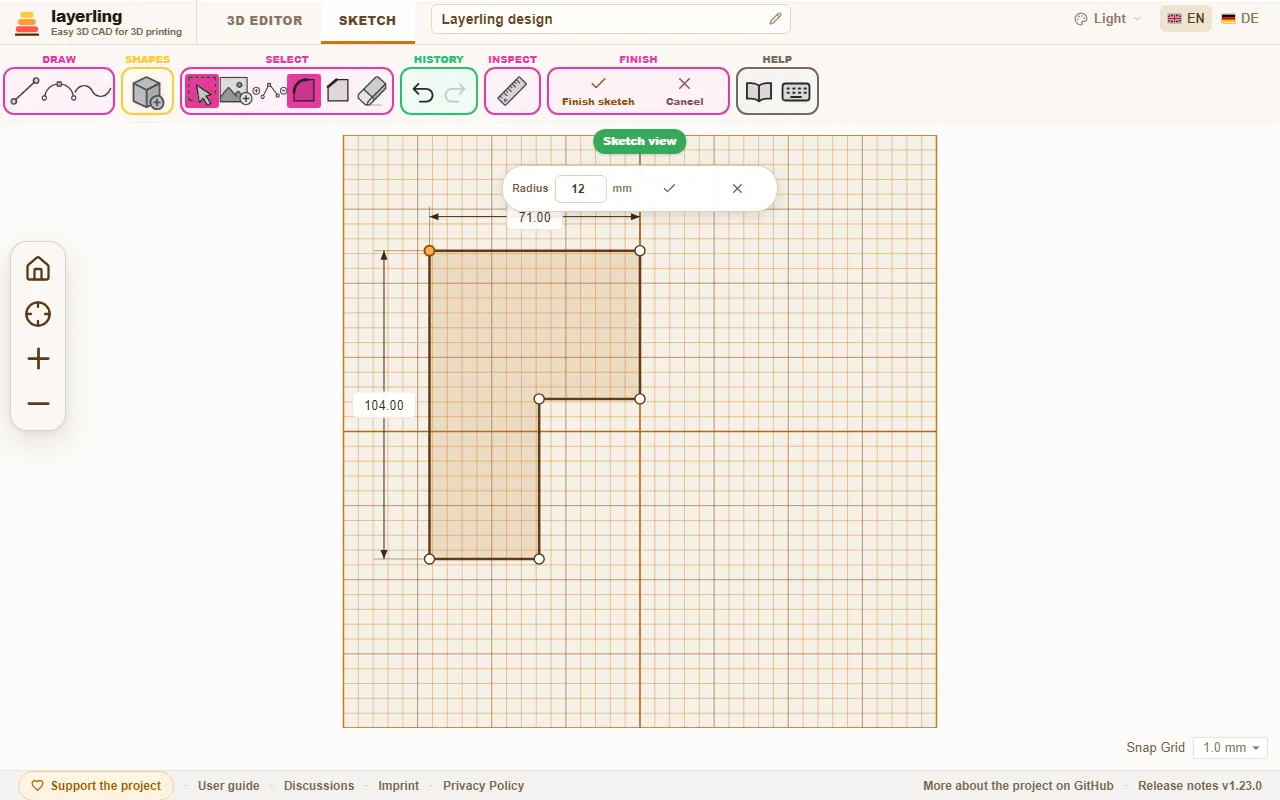
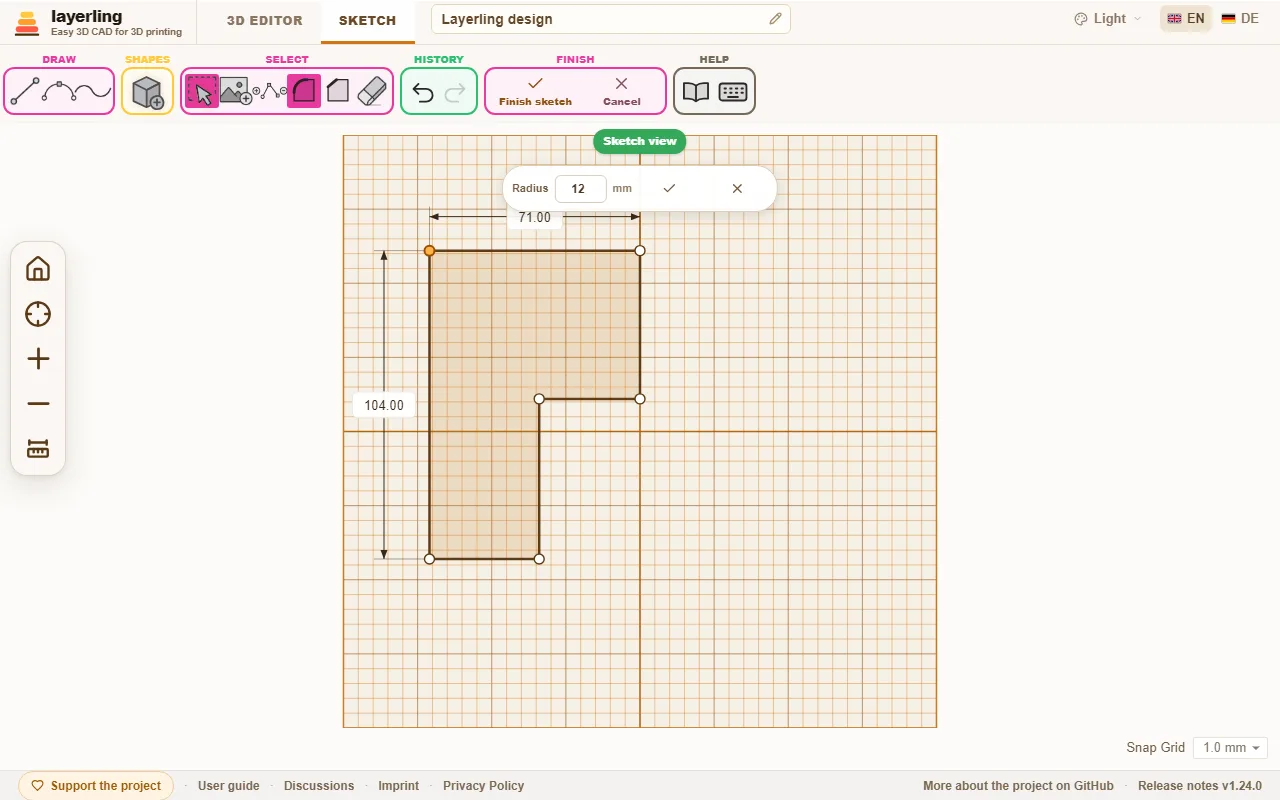
Skizze: Messknopf schaltet beim zweiten Klick ab, Bilder und Theme neu

Changed region(s): [[0.375, 0.0625, 0.6562, 0.1562], [0.0, 0.5312, 0.0625, 0.5938]]

diff --git a/apps/web/public/assets/theme/graphite-theme.css b/apps/web/public/assets/theme/graphite-theme.css
@@ -1253,7 +1253,6 @@ html:where([data-theme="dark"][data-palette="graphite"]),
 
 :where(html[data-theme="dark"][data-palette="graphite"]) .toolbar-section[data-group="draw"],
 :where(html[data-theme="dark"][data-palette="graphite"]) .toolbar-section[data-group="select"],
-:where(html[data-theme="dark"][data-palette="graphite"]) .toolbar-section[data-group="inspect"],
 :where(html[data-theme="dark"][data-palette="graphite"]) .toolbar-section[data-group="finish"],
 :where(html[data-theme="dark"][data-palette="graphite"]) .toolbar-section[data-group="create"] {
   --group-color: var(--group-sketch);

diff --git a/apps/web/src/components/LayerlingEditor.tsx b/apps/web/src/components/LayerlingEditor.tsx
@@ -11221,7 +11221,7 @@ export function LayerlingEditor({
             onApplyFillet={applySketchFilletHandler}
             onApplyChamfer={applySketchChamferHandler}
             onClearMeasurement={clearSketchMeasurement}
-            onMeasureTool={() => setActiveSketchTool("measure")}
+            onMeasureTool={() => setActiveSketchTool(sketchTool === "measure" ? "select" : "measure")}
             cornerDialog={sketchCornerDialog}
             onCornerDialogChange={setSketchCornerDialog}
           />
